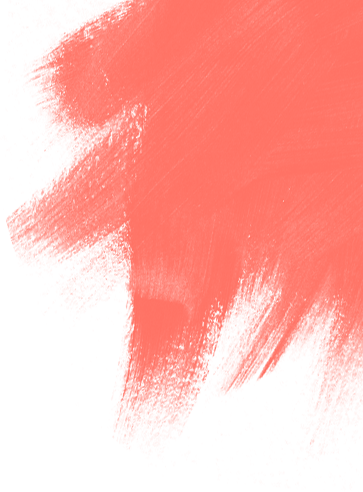
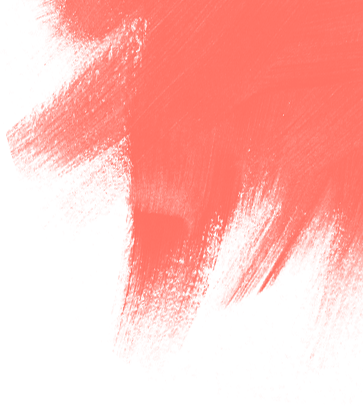
added collage

Changed region(s): [[0.0, 0.0, 1.0, 0.8571]]

diff --git a/style.css b/style.css
@@ -168,6 +168,8 @@ a {
   color: #E1B87F;
   line-height: 82px;
   text-transform: uppercase; }
+  .header.red {
+    color: #FF6F61; }
 
 .wrap-header-block {
   position: relative;
@@ -243,7 +245,7 @@ a {
       width: 90%;
       margin: 0 auto; }
       .default-two-block-section .wrap-info .info .header {
-        max-width: 455px;
+        max-width: 500px;
         margin-bottom: 20px; }
       .default-two-block-section .wrap-info .info .desc {
         margin-bottom: 35px;
@@ -260,12 +262,12 @@ a {
 .wrap-slider {
   position: relative;
   overflow: hidden;
-  padding: 130px 0 35px;
-  background: #F5F5F5 url("./images/aa.png") no-repeat right top; }
+  padding: 130px 0 110px;
+  background: #F5F5F5 url("./images/brush-slider.png") no-repeat right top; }
 
 .slider {
   position: initial;
-  max-width: 1340px;
+  max-width: 1490px;
   width: 90%;
   margin: 0 auto;
   text-align: center; }
@@ -291,15 +293,27 @@ a {
       right: 95px;
       transform: rotate(-45deg); }
   .slider .slick-slide {
-    overflow: hidden; }
+    overflow: hidden;
+    box-sizing: border-box;
+    padding: 0 75px; }
     .slider .slick-slide .image {
       margin: 0 auto 65px;
       border-radius: 100%; }
     .slider .slick-slide .desc {
+      position: relative;
       display: inline-block;
+      margin-bottom: 35px;
       font-size: 25px;
       line-height: 34px;
       text-align: left; }
+      .slider .slick-slide .desc:before {
+        content: '';
+        position: absolute;
+        left: -75px;
+        top: -60px;
+        width: 61px;
+        height: 67px;
+        background: url("./images/hochkomma.png") no-repeat; }
     .slider .slick-slide .author {
       position: relative;
       font: 55px 'Aescudos';
@@ -317,6 +331,16 @@ a {
       .slider .slick-slide .author:after {
         left: auto;
         right: -45px; }
+
+.collage {
+  display: flex; }
+  .collage li {
+    overflow: hidden;
+    flex-grow: 1; }
+    .collage li img {
+      transition: 0.3s; }
+      .collage li img:hover {
+        transform: scale(1.1); }
 
 .wrap-nav {
   display: flex;

diff --git a/index.html b/index.html
@@ -167,6 +167,32 @@
         </ul>
     </div>
 
+    <div class="default-two-block-section">
+        <div class="wrap-info">
+            <div class="info">
+                <span class="header red">FREUNDE SPAREN BARES.</span>
+                <p class="desc">
+                    Zu zweit ist es doch viel schöner. Vor allem, wenn ihr mit eurer Freundschaft bis zu 90,- CHF sparen
+                    könnt. Kommt gemeinsam und profitiert von unserem unschlagbaren Freundinnenrabatt!
+                </p>
+                <button class="button button-red">ONLINE BUCHEN</button>
+            </div>
+        </div>
+
+        <ul class="images">
+            <li>
+                <img src="./images/best-friends.jpg" alt="" />
+            </li>
+        </ul>
+    </div>
+
+    <ul class="collage">
+        <li><img src="./images/collage-1.jpg" alt="" /></li>
+        <li><img src="./images/collage-2.jpg" alt="" /></li>
+        <li><img src="./images/collage-3.jpg" alt="" /></li>
+        <li><img src="./images/collage-4.jpg" alt="" /></li>
+    </ul>
+
     <script src="https://cdnjs.cloudflare.com/ajax/libs/jquery/3.4.1/jquery.min.js"></script>
     <script src="js/slick.min.js"></script>
     <script src="js/main.js"></script>

diff --git a/scss/blocks/slider.scss b/scss/blocks/slider.scss
@@ -1,13 +1,13 @@
 .wrap-slider {
   position: relative;
   overflow: hidden;
-  padding: 130px 0 35px;
-  background: $lightGrey url("./images/aa.png") no-repeat right top;
+  padding: 130px 0 110px;
+  background: $lightGrey url("./images/brush-slider.png") no-repeat right top;
 }
 
 .slider {
   position: initial;
-  max-width: 1340px;
+  max-width: 1490px;
   width: 90%;
   margin: 0 auto;
   text-align: center;
@@ -43,6 +43,8 @@
 
   .slick-slide {
     overflow: hidden;
+    box-sizing: border-box;
+    padding: 0 75px;
 
     .image {
       margin: 0 auto 65px;
@@ -50,10 +52,22 @@
     }
 
     .desc {
+      position: relative;
       display: inline-block;
+      margin-bottom: 35px;
       font-size: 25px;
       line-height: 34px;
       text-align: left;
+
+      &:before {
+        content: '';
+        position: absolute;
+        left: -75px;
+        top: -60px;
+        width: 61px;
+        height: 67px;
+        background: url("./images/hochkomma.png") no-repeat;
+      }
     }
 
     .author {

diff --git a/scss/blocks/collage.scss b/scss/blocks/collage.scss
@@ -1,0 +1,16 @@
+.collage {
+  display: flex;
+
+  li {
+    overflow: hidden;
+    flex-grow: 1;
+
+    img {
+      transition: $transitionHover;
+
+      &:hover {
+        transform: scale(1.1);
+      }
+    }
+  }
+}

diff --git a/scss/blocks/default-two-block-section.scss b/scss/blocks/default-two-block-section.scss
@@ -24,7 +24,7 @@
       margin: 0 auto;
 
       .header {
-        max-width: 455px;
+        max-width: 500px;
         margin-bottom: 20px;
       }
 

diff --git a/scss/base/headers.scss b/scss/base/headers.scss
@@ -5,4 +5,8 @@
   color: $goldColor;
   line-height: 82px;
   text-transform: uppercase;
+
+  &.red {
+    color: $redColor;
+  }
 }

diff --git a/scss/blocks/all.scss b/scss/blocks/all.scss
@@ -1,3 +1,4 @@
 @import "header";
 @import "default-two-block-section";
 @import "slider";
+@import "collage";
